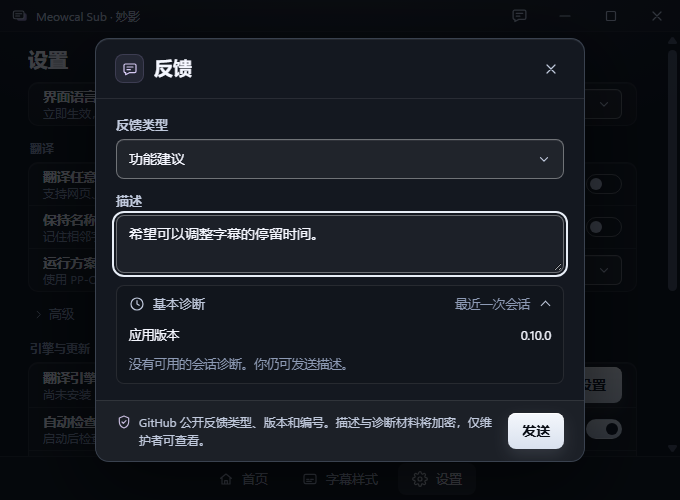
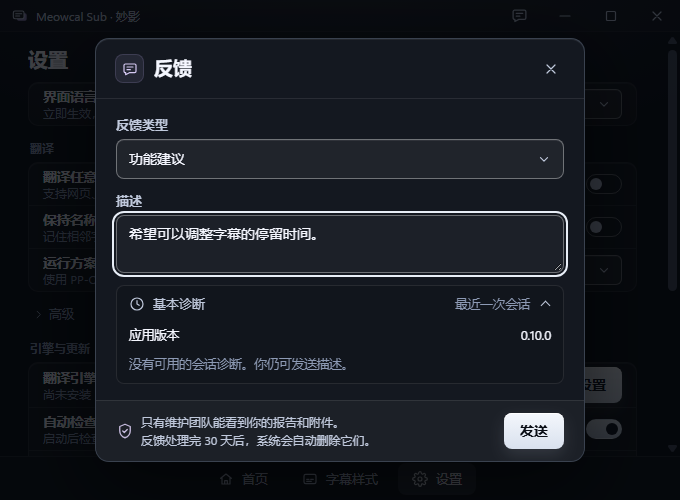
docs(feedback): refresh native Windows feedback screenshots (#340)

Changed region(s): [[0.1544, 0.81, 0.8029, 0.9]]

diff --git a/docs/evidence/feedback-340/README.md b/docs/evidence/feedback-340/README.md
@@ -11,7 +11,7 @@ The speech bubble in the title bar opens the feedback form from any tab. An erro
 
 ![Native feedback window](windows/03-feedback.png)
 
-The hosted ARM64 machine ran the debug Tauri application with the built frontend on Windows build 26200 and WebView2 157.0.4341.46. Its disposable profile had no model installed. Making its config file read-only triggered a real Windows save failure. Both forms opened through their ordinary controls. This run covered the UI and native diagnostics preview. Sending feedback and live subtitle processing were outside this screenshot scenario. The [run record](windows/evidence.json) identifies the tested PR merge commit. [Windows CI](https://github.com/PeterShanxin/Meowcal-Sub/actions/runs/44465424753)
+The hosted ARM64 machine ran the debug Tauri application with the built frontend on Windows build 26200 and WebView2 157.0.4341.60. Its disposable profile had no model installed. Making its config file read-only triggered a real Windows save failure. Both forms opened through their ordinary controls. This run covered the UI and native diagnostics preview. Sending feedback and live subtitle processing were outside this screenshot scenario. The [run record](windows/evidence.json) identifies the tested PR merge commit. [Windows CI](https://github.com/PeterShanxin/Meowcal-Sub/actions/runs/44689752802)
 
 ## Subtitle examples, retry and receipt
 
